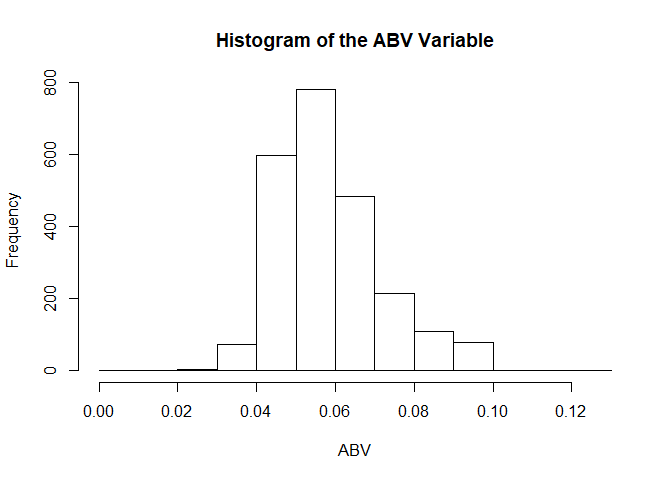
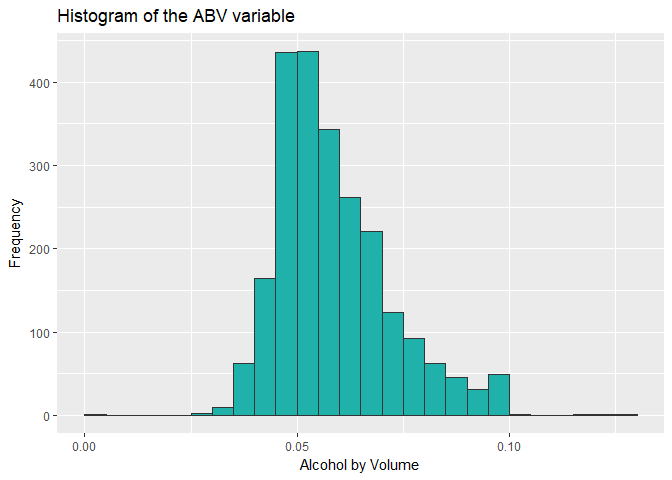
Some makeover to the charts

diff --git a/Craft_Beer_Analysis.html b/Craft_Beer_Analysis.html
@@ -579,15 +579,20 @@ MergedBeers[which(MergedBeers$IBU == max(MergedBeers$IBU, na.rm=T)),]</code></pr
 summary(MergedBeers$ABV)</code></pre>
 <pre><code>##    Min. 1st Qu.  Median    Mean 3rd Qu.    Max.    NA's 
 ## 0.00100 0.05000 0.05600 0.05977 0.06700 0.12800      62</code></pre>
-<pre class="r"><code>hist(MergedBeers$ABV, main = &quot;Histogram of the ABV Variable&quot;, xlab = &quot;ABV&quot;, ylab = &quot;Frequency&quot;)</code></pre>
[1 lines of base64/hex data omitted]
+<pre class="r"><code>sd(MergedBeers$ABV, na.rm = TRUE )</code></pre>
+<pre><code>## [1] 0.01354173</code></pre>
+<pre class="r"><code>ggplot(data=MergedBeers, aes(MergedBeers$ABV)) + 
+  geom_histogram(breaks=seq(0,0.13, by=0.005),col=&quot;gray20&quot;, fill=&quot;lightseagreen&quot;) + 
+  labs(title=&quot;Histogram of the ABV variable&quot;) +
+  labs(x=&quot;Alcohol by Volume&quot;, y=&quot;Frequency&quot;)</code></pre>
[1 lines of base64/hex data omitted]
 </div>
 <div id="is-there-an-apparent-relationship-between-the-bitterness-of-the-beer-and-its-alcoholic-content-draw-a-scatter-plot." class="section level3">
 <h3>7. Is there an apparent relationship between the bitterness of the beer and its alcoholic content? Draw a scatter plot.</h3>
 <pre class="r"><code>##Scatter plot between bitterness of beer and its alcoholic content
-plot(IBU~ABV, data=MergedBeers, main = &quot;Relationship between Bitterness (IBU) and alcoholic content (ABV&quot;)
+plot(IBU~ABV, data=MergedBeers, main = &quot;Relationship between Bitterness (IBU) and alcoholic content (ABV)&quot;)
 abline(lm(IBU~ABV, data=MergedBeers), col=&quot;red&quot;)</code></pre>
[2 lines of base64/hex data omitted]
 <pre class="r"><code>cor(MergedBeers$IBU, MergedBeers$ABV, use = &quot;pairwise.complete.obs&quot;)</code></pre>
 <pre><code>## [1] 0.6706215</code></pre>
 <div id="looking-at-the-scatterplot-there-seems-to-be-an-apparent-relationship-between-the-bitterness-of-the-beer-and-its-alcoholic-content.additionally-we-have-fitted-a-regression-line-to-show-the-positive-relationship.-additionally-weve-calculated-the-correlation-between-bitternes-and-alcoholic-content-resulting-in-a-value-of-0.67.-this-is-all-evidence-in-favor-of-a-positive-relationship-betwen-the-variables." class="section level4">

diff --git a/Craft_Beer_Analysis.md b/Craft_Beer_Analysis.md
@@ -365,7 +365,18 @@ summary(MergedBeers$ABV)
 ```
 
 ```r
-hist(MergedBeers$ABV, main = "Histogram of the ABV Variable", xlab = "ABV", ylab = "Frequency")
+sd(MergedBeers$ABV, na.rm = TRUE )
+```
+
+```
+## [1] 0.01354173
+```
+
+```r
+ggplot(data=MergedBeers, aes(MergedBeers$ABV)) + 
+  geom_histogram(breaks=seq(0,0.13, by=0.005),col="gray20", fill="lightseagreen") + 
+  labs(title="Histogram of the ABV variable") +
+  labs(x="Alcohol by Volume", y="Frequency")
 ```
 
 ![](Craft_Beer_Analysis_files/figure-html/Question 6-1.png)<!-- -->
@@ -375,7 +386,7 @@ hist(MergedBeers$ABV, main = "Histogram of the ABV Variable", xlab = "ABV", ylab
 
 ```r
 ##Scatter plot between bitterness of beer and its alcoholic content
-plot(IBU~ABV, data=MergedBeers, main = "Relationship between Bitterness (IBU) and alcoholic content (ABV")
+plot(IBU~ABV, data=MergedBeers, main = "Relationship between Bitterness (IBU) and alcoholic content (ABV)")
 abline(lm(IBU~ABV, data=MergedBeers), col="red")
 ```
 
